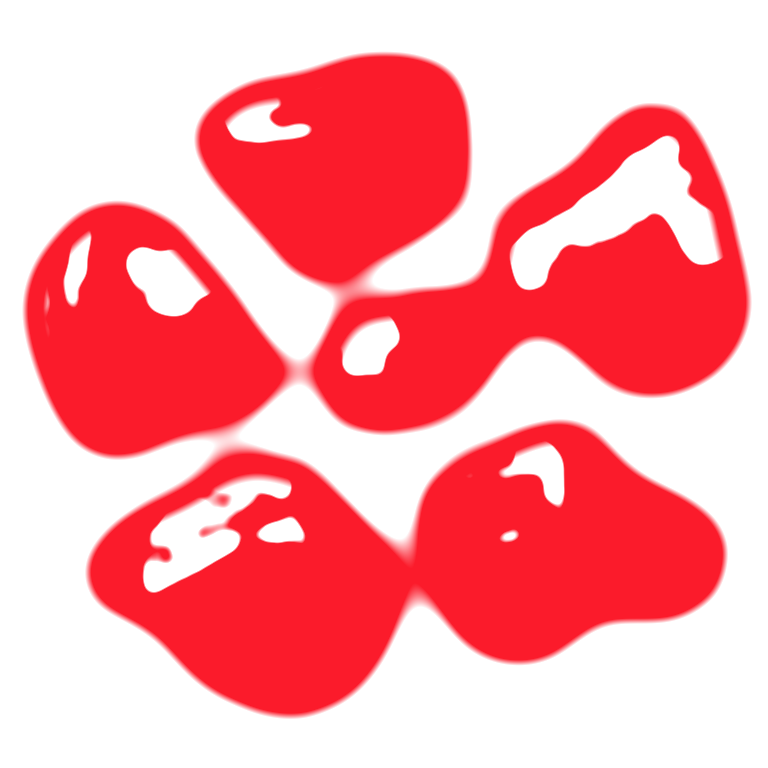
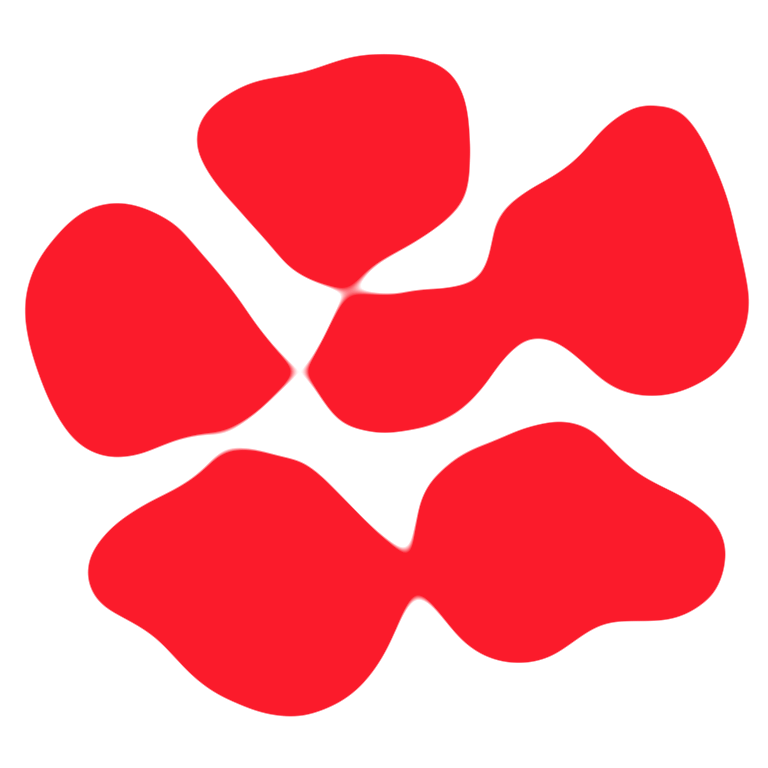
Ikon: piros virág fehér foltok nélkül

diff --git a/layouts/_partials/head.html b/layouts/_partials/head.html
@@ -35,11 +35,11 @@
 <meta property="og:image:height" content="630">
 <meta name="twitter:card" content="summary_large_image">
 {{- end }}
-{{- /* böngészőfül-ikon: a kis virág a Greener zine hátsó borítójáról, simítva, pirosan, fehér foltokkal */}}
-<link rel="icon" href="{{ "favicon.ico" | relURL }}?v=5" sizes="any">
-<link rel="icon" href="{{ "favicon-32.png" | relURL }}?v=5" type="image/png" sizes="32x32">
-<link rel="icon" href="{{ "favicon-192.png" | relURL }}?v=5" type="image/png" sizes="192x192">
-<link rel="apple-touch-icon" href="{{ "apple-touch-icon.png" | relURL }}?v=5">
+{{- /* böngészőfül-ikon: a kis virág a Greener zine hátsó borítójáról, simítva, kerekebb szirmokkal, pirosan */}}
+<link rel="icon" href="{{ "favicon.ico" | relURL }}?v=6" sizes="any">
+<link rel="icon" href="{{ "favicon-32.png" | relURL }}?v=6" type="image/png" sizes="32x32">
+<link rel="icon" href="{{ "favicon-192.png" | relURL }}?v=6" type="image/png" sizes="192x192">
+<link rel="apple-touch-icon" href="{{ "apple-touch-icon.png" | relURL }}?v=6">
 <link rel="preload" href="{{ "fonts/sourceserif-latin-normal.woff2" | relURL }}" as="font" type="font/woff2" crossorigin>
 {{- /* a dőlt betű is előre töltődik: a rámutatáskor dőltté váló menüpontok így nem villannak és nem ugranak az első rámutatáskor */}}
 <link rel="preload" href="{{ "fonts/sourceserif-latin-italic.woff2" | relURL }}" as="font" type="font/woff2" crossorigin>
